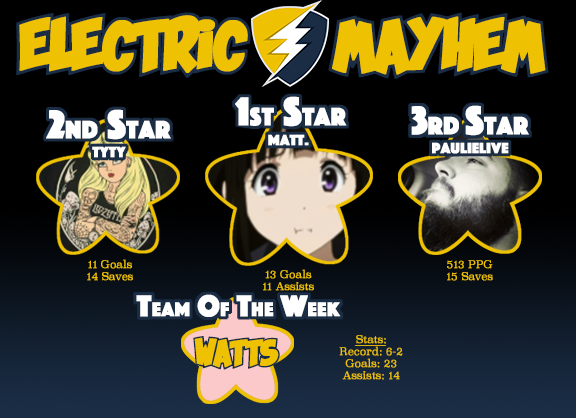
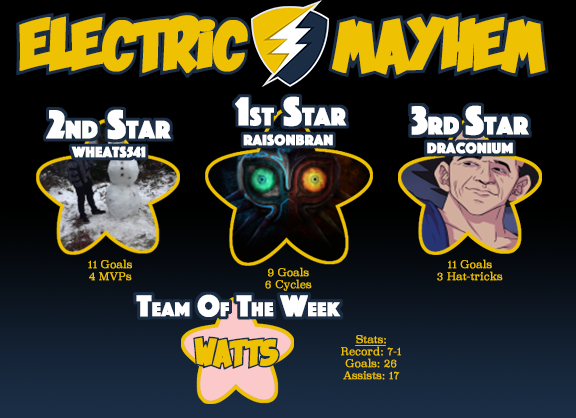
:)

diff --git a/cogs.py b/cogs.py
@@ -8,23 +8,31 @@ class Default(commands.Cog):
         self.bot = bot
         self.server_role = None
         self.former_role = None
+        self.captain_role = None
+        self.coach_role = None
         self.team_roles = []
 
     @commands.Cog.listener()
     async def on_ready(self):
         print(f"Logged in and listening as {self.bot.user}!")
-        await self.bot.change_presence(activity=discord.Game(name="being Programmed"))  # Set Discord status
+        await self.bot.change_presence(activity=discord.Game(name="Electric Mayhem"))  # Set Discord status
 
         for guild in self.bot.guilds:
-            if guild.name == "Michael\'s Server":
+            if guild.name == "Electric Mayhem (Flez)":
                 for role in guild.roles:
                     if role.name == "EM|Electric Mayhem":
                         self.server_role = role
                     elif role.name == "Former Player":
                         self.former_role = role
+                    elif role.name == "Captains":
+                        self.captain_role = role
+                    elif role.name == "Coach":
+                        self.coach_role = role
                     for team in "Premier,Master,Elite,Major,Minor,Challenger,Prospect,Contender,Amateur".split(","):
                         if team in role.name:
                             self.team_roles.append(role)
+
+        # print(self.server_role, self.former_role, self.captain_role, self.coach_role)
 
     @commands.Cog.listener()
     async def on_message(self, ctx):
@@ -43,14 +51,18 @@ class Default(commands.Cog):
 
     @commands.command()
     async def format(self, ctx):
-        await ctx.send(f"Role (Role), Channel to Send Message (TextChannel), Week Number (Int), Star 1 (Member), Star 2 (Member), "
-                 f"Star 3 (Member), Team of the Week (Role), Team of the Week Team Channel (TextChannel)")
+        await ctx.send(f"Stars\nRole (Role), Channel to Send Message (TextChannel), Week Number (Int), Star 1 (Member), Star 2 (Member), "
+                 f"Star 3 (Member), Team of the Week (Role), Team of the Week Team Channel (TextChannel), "
+                       f"Time to Wait _Optional_ (Seconds)\n\nSign\nPlayer (Member), Team (Role), Time to Wait _Optional"
+                       f"_ (Seconds)\n\nCut\nPlayer (Member), Time to Wait _Optional_ (Seconds)")
 
     @commands.command()
     @commands.has_permissions(manage_guild=True)
-    async def sotw(self, ctx, role: discord.role.Role, to_send: discord.channel.TextChannel, week_num: int,
+    async def stars(self, ctx, role: discord.role.Role, to_send: discord.channel.TextChannel, week_num: int,
                    member1: discord.member.Member, member2: discord.member.Member, member3: discord.member.Member,
-                   team_of_week: discord.role.Role, team_channel: discord.channel.TextChannel):
+                   team_of_week: discord.role.Role, team_channel: discord.channel.TextChannel, wait_time=0):
+        await asyncio.sleep(wait_time)
+
         star = "⭐"
         members_with_role = []
         star_members = [member1, member2, member3]
@@ -67,7 +79,10 @@ class Default(commands.Cog):
             if member not in star_members:
                 await self.remove_star(member)
             elif member in star_members:
-                nick = member.nick + star
+                if member.nick is None:
+                    nick = member.name + star
+                else:
+                    nick = member.nick + star
                 await member.edit(nick=nick)
 
         for channel in channels_in_category:
@@ -77,10 +92,13 @@ class Default(commands.Cog):
                 await self.remove_star_chat(channel)
 
         await to_send.send(f"Hello <@&{role.id}>, here are your 3 Stars of the Week for Week {week_num}, <@{member1.id}>,"
-                       f"<@{member2.id}>, and <@{member3.id}>, and your team of the week <@&{team_of_week.id}>!",
+                       f" <@{member2.id}>, and <@{member3.id}>, and your team of the week <@&{team_of_week.id}>!",
                        file=File("./Stars of the Week.png", spoiler=False))
 
     async def remove_star(self, member):
+        if member.nick is None:
+            print(f"{member.name} has no nickname.")
+            return
         while "⭐" in member.nick:
             i = member.nick.index("⭐")
             nick = member.nick[0:i] + member.nick[i+1:]
@@ -94,7 +112,9 @@ class Default(commands.Cog):
 
     @commands.command()
     @commands.has_permissions(manage_roles=True)
-    async def sign(self, ctx, player: discord.member.Member, team: discord.role.Role):
+    async def sign(self, ctx, player: discord.member.Member, team: discord.role.Role, wait_time=0):
+        await asyncio.sleep(int(wait_time))
+
         if self.server_role is None:
             return
         try:
@@ -106,10 +126,19 @@ class Default(commands.Cog):
 
     @commands.command()
     @commands.has_permissions(manage_roles=True)
-    async def cut(self, ctx, player: discord.member.Member):
+    async def cut(self, ctx, player: discord.member.Member, wait_time=0):
+        await asyncio.sleep(int(wait_time))
+
         try:
             await player.remove_roles(self.server_role)
             await player.add_roles(self.former_role)
+
+            if self.captain_role in player.roles:
+                await player.remove_roles(self.captain_role)
+
+            if self.coach_role in player.roles:
+                await player.remove_roles(self.coach_role)
+
             for role in self.team_roles:
                 if role in player.roles:
                     await player.remove_roles(role)
@@ -118,8 +147,13 @@ class Default(commands.Cog):
             await ctx.send(f"Failed to cut <@{player.id}> from Electric Mayhem\nReason: {e}")
             print(e)
 
-
     @commands.command()
+    async def nick(self, ctx):
+        print(ctx.author.nick)
+        # await ctx.send(ctx.author.nick)
+
+
+    #@commands.command()
     async def setup(self, ctx):
         guild = ctx.guild
         # Category/Channel creation
